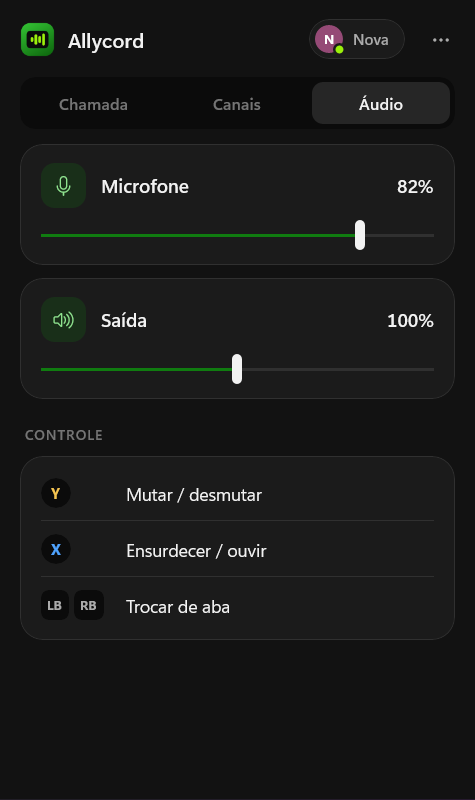
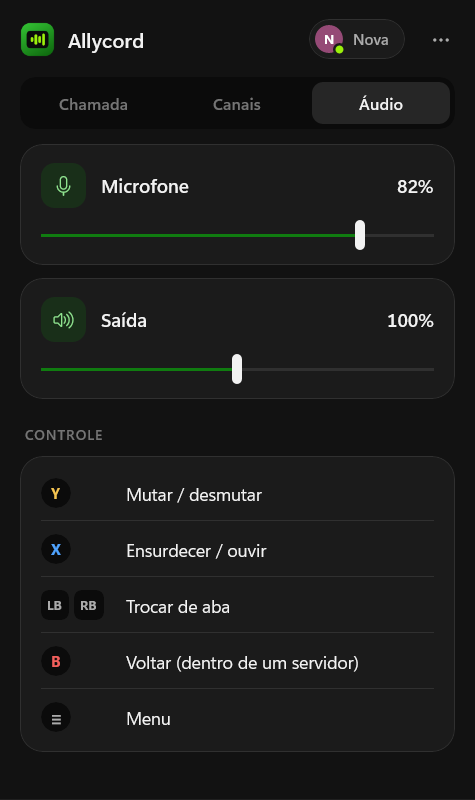
Screen share app picker; controller polish
- toggle_screenshare takes a pid: Discord's RPC validates it ("pid must be a
  number >= 0") and shares that app. RPC has no whole-monitor option.
- Picker lists Alt+Tab-style windows (visible, not cloaked, not tool windows),
  heaviest first so the game tends to be on top.
- All flyouts constrained to the widget (windowed popups could leave Game
  Bar's surface; this is also why the picker didn't render at first).
- Menu (≡) opens the ⋯ menu; Audio tab lists every controller shortcut.

diff --git a/src/Allycord.Widget/MainPage.xaml b/src/Allycord.Widget/MainPage.xaml
@@ -176,10 +176,10 @@
                     </StackPanel>
                 </Border>
 
-                <Button Grid.Column="3" Style="{StaticResource XcIconButton}" VerticalAlignment="Center">
+                <Button x:Name="MenuButton" Grid.Column="3" Style="{StaticResource XcIconButton}" VerticalAlignment="Center">
                     <FontIcon FontFamily="{StaticResource XcIcons}" Glyph="&#xE712;" FontSize="16" />
                     <Button.Flyout>
-                        <MenuFlyout Placement="BottomEdgeAlignedRight">
+                        <MenuFlyout Placement="BottomEdgeAlignedRight" ShouldConstrainToRootBounds="True">
                             <MenuFlyoutItem x:Uid="MenuOpenDiscord" Text="Open Discord" Click="OpenDiscord_Click">
                                 <MenuFlyoutItem.Icon>
                                     <FontIcon FontFamily="{StaticResource XcIcons}" Glyph="&#xE8BD;" />
@@ -611,6 +611,28 @@
                                             </Border>
                                         </StackPanel>
                                         <TextBlock x:Uid="ShortcutTabs" Grid.Column="1" FontSize="14" VerticalAlignment="Center" />
+                                    </Grid>
+                                    <Rectangle Height="1" Fill="{StaticResource XcLine}" />
+                                    <Grid Padding="0,10" ColumnSpacing="12">
+                                        <Grid.ColumnDefinitions>
+                                            <ColumnDefinition Width="56" />
+                                            <ColumnDefinition Width="*" />
+                                        </Grid.ColumnDefinitions>
+                                        <Border Background="{StaticResource XcInk0}" CornerRadius="12" Width="24" Height="24" HorizontalAlignment="Left">
+                                            <TextBlock Text="B" FontSize="12" FontWeight="Bold" Foreground="#F25F5C" HorizontalAlignment="Center" VerticalAlignment="Center" />
+                                        </Border>
+                                        <TextBlock x:Uid="ShortcutBack" Grid.Column="1" FontSize="14" VerticalAlignment="Center" />
+                                    </Grid>
+                                    <Rectangle Height="1" Fill="{StaticResource XcLine}" />
+                                    <Grid Padding="0,10" ColumnSpacing="12">
+                                        <Grid.ColumnDefinitions>
+                                            <ColumnDefinition Width="56" />
+                                            <ColumnDefinition Width="*" />
+                                        </Grid.ColumnDefinitions>
+                                        <Border Background="{StaticResource XcInk0}" CornerRadius="12" Width="24" Height="24" HorizontalAlignment="Left">
+                                            <TextBlock Text="&#x2261;" FontSize="14" FontWeight="Bold" Foreground="{StaticResource XcText2}" HorizontalAlignment="Center" VerticalAlignment="Center" />
+                                        </Border>
+                                        <TextBlock x:Uid="ShortcutMenu" Grid.Column="1" FontSize="14" VerticalAlignment="Center" />
                                     </Grid>
                                 </StackPanel>
                             </Grid>

diff --git a/src/Allycord.Widget/MainPage.xaml.cs b/src/Allycord.Widget/MainPage.xaml.cs
@@ -92,6 +92,8 @@ namespace Allycord.Widget
                 if (_demo.Tab > 0) SelectTab(_demo.Tab);
                 if (_demo.Has("open") && _guilds.Count > 0) await OpenGuildAsync(_guilds[0]);
                 if (_demo.Has("search")) SearchBox.Text = "br";
+                if (_demo.Has("share"))
+                    _ = Dispatcher.RunAsync(CoreDispatcherPriority.Low, () => Screen_Click(ScreenButton, null));
                 ApplyDisplayMode();
                 FocusDock();
                 return;
@@ -318,15 +320,45 @@ namespace Allycord.Widget
         async void Video_Click(object sender, RoutedEventArgs e) => await CallAsync("toggle_video");
 
         /// <summary>
-        /// Discord accepts the command even where Go Live is off (e.g. Brazil), and simply doesn't start.
-        /// When nothing changes, say so and hide the button for this session instead of failing silently.
+        /// Stop if sharing; otherwise pick the app to share. RPC only takes a process (no whole-monitor option).
         /// </summary>
         async void Screen_Click(object sender, RoutedEventArgs e)
         {
-            var wasActive = _screenActive;
-            var result = await CallAsync("toggle_screenshare");
+            if (_screenActive)
+            {
+                await CallAsync("toggle_screenshare");
+                return;
+            }
+
+            var targets = await CallAsync("list_share_targets");
+            if (targets == null || targets.ValueType != JsonValueType.Array) return;
+
+            // Keep the menu inside the widget: a windowed popup could land outside Game Bar's surface.
+            var menu = new MenuFlyout { Placement = Windows.UI.Xaml.Controls.Primitives.FlyoutPlacementMode.Bottom, ShouldConstrainToRootBounds = true };
+            menu.Items.Add(new MenuFlyoutItem { Text = T("ShareWhichApp"), IsEnabled = false });
+            foreach (var value in targets.GetArray())
+            {
+                var target = value.GetObject();
+                var pid = Json.Num(target, "pid");
+                var title = Json.Str(target, "title") ?? "";
+                if (title.Length > 42) title = title.Substring(0, 41) + "\u2026";
+                var item = new MenuFlyoutItem { Text = $"{title}  \u00B7  {Json.Str(target, "name")}" };
+                item.Click += async (s2, a2) => await ShareAsync(pid);
+                menu.Items.Add(item);
+            }
+            if (menu.Items.Count == 1) menu.Items.Add(new MenuFlyoutItem { Text = T("NoShareTargets"), IsEnabled = false });
+            menu.ShowAt(ScreenButton);
+        }
+
+        /// <summary>
+        /// Discord accepts the command even where Go Live is off (e.g. Brazil), and simply doesn't start.
+        /// When nothing changes, say so and hide the button for this session instead of failing silently.
+        /// </summary>
+        async Task ShareAsync(double pid)
+        {
+            var result = await CallAsync("toggle_screenshare", new JsonObject { ["pid"] = JsonValue.CreateNumberValue(pid) });
             if (result == null || result.ValueType != JsonValueType.Object) return;
-            if (!Json.Bool(result.GetObject(), "changed") && !wasActive)
+            if (!Json.Bool(result.GetObject(), "changed"))
             {
                 _screenBlocked = true;
                 ScreenButton.Visibility = Visibility.Collapsed;
@@ -523,7 +555,15 @@ namespace Allycord.Widget
         protected override async void OnKeyDown(KeyRoutedEventArgs e)
         {
             base.OnKeyDown(e);
-            if (e.Handled || MainView.Visibility != Visibility.Visible || FocusManager.GetFocusedElement() is TextBox) return;
+            if (e.Handled) return;
+            // Menu (≡) opens the ⋯ menu from anywhere, like a game's pause menu.
+            if (e.Key == VirtualKey.GamepadMenu && !_pinned)
+            {
+                e.Handled = true;
+                MenuButton.Flyout.ShowAt(MenuButton);
+                return;
+            }
+            if (MainView.Visibility != Visibility.Visible || FocusManager.GetFocusedElement() is TextBox) return;
 
             switch (e.Key)
             {
@@ -682,7 +722,7 @@ namespace Allycord.Widget
             panel.Children.Add(slider);
             panel.Children.Add(toggle);
 
-            var flyout = new Flyout { Content = panel };
+            var flyout = new Flyout { Content = panel, ShouldConstrainToRootBounds = true };
             flyout.Closed += (s, a) => send.Flush();
             flyout.ShowAt((FrameworkElement)MembersGrid.ContainerFromItem(member) ?? MembersGrid);
         }

diff --git a/src/Allycord.Bridge/Discord/DiscordSession.cs b/src/Allycord.Bridge/Discord/DiscordSession.cs
@@ -391,12 +391,17 @@ sealed class DiscordSession
             case "toggle_video":
                 await ipc.SendAsync("TOGGLE_VIDEO");
                 return null;
+            case "list_share_targets":
+                return ShareTargets();
             case "toggle_screenshare":
                 // Discord accepts the command even where Go Live is unavailable, it just doesn't start.
                 // Report whether the state actually changed so the widget can say so.
+                // Optional "pid": share that app (the only target RPC accepts; no whole-monitor option).
                 var wait = new TaskCompletionSource<bool>(TaskCreationOptions.RunContinuationsAsynchronously);
                 _screenChanged = wait;
-                await ipc.SendAsync("TOGGLE_SCREENSHARE");
+                var shareArgs = new JsonObject();
+                if (args["pid"] is JsonValue pidValue) shareArgs["pid"] = Math.Max(0, (int)pidValue);
+                await ipc.SendAsync("TOGGLE_SCREENSHARE", shareArgs);
                 var changedInTime = await Task.WhenAny(wait.Task, Task.Delay(TimeSpan.FromSeconds(4))) == wait.Task;
                 _screenChanged = null;
                 return new JsonObject { ["changed"] = changedInTime };
@@ -460,6 +465,40 @@ sealed class DiscordSession
             default:
                 throw new InvalidOperationException($"Unknown method {method}");
         }
+    }
+
+    /// <summary>
+    /// Apps with a visible window that Discord could share, heaviest first (the game is usually on top).
+    /// Built only when the user opens the picker.
+    /// </summary>
+    static JsonArray ShareTargets()
+    {
+        var skip = new HashSet<string>(StringComparer.OrdinalIgnoreCase)
+        {
+            "Discord", "DiscordPTB", "DiscordCanary", "Allycord.Widget", "Allycord.Bridge",
+            "TextInputHost", "ApplicationFrameHost", "SystemSettings", "ShellExperienceHost", "StartMenuExperienceHost",
+        };
+        var targets = new List<(int Pid, string Name, string Title, long Memory)>();
+        foreach (var p in Process.GetProcesses())
+        {
+            using (p)
+            {
+                try
+                {
+                    if (p.MainWindowHandle == IntPtr.Zero || string.IsNullOrWhiteSpace(p.MainWindowTitle) || skip.Contains(p.ProcessName)
+                        || !Win32.IsAltTabWindow(p.MainWindowHandle))
+                        continue;
+                    targets.Add((p.Id, p.ProcessName, p.MainWindowTitle, p.WorkingSet64));
+                }
+                catch { } // exited, or access denied
+            }
+        }
+        return new JsonArray(targets.OrderByDescending(t => t.Memory).Take(12).Select(t => (JsonNode)new JsonObject
+        {
+            ["pid"] = t.Pid,
+            ["name"] = t.Name,
+            ["title"] = t.Title,
+        }).ToArray());
     }
 
     /// <summary>Subscribes if this Discord build knows the event; "Invalid event" (4004) means unsupported.</summary>

diff --git a/src/Allycord.Widget/DemoMode.cs b/src/Allycord.Widget/DemoMode.cs
@@ -98,6 +98,13 @@ namespace Allycord.Widget
                 case "toggle_deaf": _deaf = !_deaf; if (!_deaf) _mute = false; break;
                 case "leave": _inCall = false; break;
                 case "toggle_video": _video = !_video; break;
+                case "list_share_targets":
+                    return new JsonArray
+                    {
+                        Target(7120, "ForzaHorizon5", "Forza Horizon 5"),
+                        Target(5532, "Spotify", "Spotify Premium"),
+                        Target(4410, "msedge", "Guia de builds - Microsoft Edge"),
+                    };
                 case "toggle_screenshare":
                     _screen = !_screen;
                     return new JsonObject { ["changed"] = JsonValue.CreateBooleanValue(true) };
@@ -147,6 +154,13 @@ namespace Allycord.Widget
             m["volume"] = JsonValue.CreateNumberValue(volume);
             return m;
         }
+
+        static JsonObject Target(int pid, string name, string title) => new JsonObject
+        {
+            ["pid"] = JsonValue.CreateNumberValue(pid),
+            ["name"] = JsonValue.CreateStringValue(name),
+            ["title"] = JsonValue.CreateStringValue(title),
+        };
 
         static JsonObject Guild(string id, string name) => new JsonObject
         {

diff --git a/src/Allycord.Bridge/Win32.cs b/src/Allycord.Bridge/Win32.cs
@@ -1,0 +1,31 @@
+using System.Runtime.InteropServices;
+
+namespace Allycord.Bridge;
+
+static partial class Win32
+{
+    const int GWL_EXSTYLE = -20;
+    const long WS_EX_TOOLWINDOW = 0x00000080;
+    const int DWMWA_CLOAKED = 14;
+
+    /// <summary>
+    /// Roughly what Alt+Tab shows: visible, not cloaked (hidden UWP/background hosts), not a tool
+    /// window (overlays, tray helpers). Filters the share picker down to real apps and games.
+    /// </summary>
+    public static bool IsAltTabWindow(IntPtr hwnd)
+    {
+        if (!IsWindowVisible(hwnd)) return false;
+        if ((GetWindowLongPtrW(hwnd, GWL_EXSTYLE) & WS_EX_TOOLWINDOW) != 0) return false;
+        return DwmGetWindowAttribute(hwnd, DWMWA_CLOAKED, out var cloaked, sizeof(int)) != 0 || cloaked == 0;
+    }
+
+    [LibraryImport("user32.dll")]
+    [return: MarshalAs(UnmanagedType.Bool)]
+    private static partial bool IsWindowVisible(IntPtr hwnd);
+
+    [LibraryImport("user32.dll")]
+    private static partial long GetWindowLongPtrW(IntPtr hwnd, int index);
+
+    [LibraryImport("dwmapi.dll")]
+    private static partial int DwmGetWindowAttribute(IntPtr hwnd, int attribute, out int value, int size);
+}

diff --git a/README.md b/README.md
@@ -30,18 +30,18 @@ Press the Xbox button, and it's there. Sister project of [Discord-Lite](https://
 
 - **Call** — mute, deafen, leave (with a one-tap *Rejoin* if you hit it by mistake), live call timer.
 - **Who's talking** — everyone in the channel, with a speaking ring and mute/deafen badges.
-- **Camera and screen share** toggles, shown only when your Discord offers them over RPC. Where Discord has Go Live
+- **Camera and screen share** (pick which app to share), shown only when your Discord offers them over RPC. Where Discord has Go Live
   disabled (e.g. Brazil, by regulatory order) Allycord tells you and hides the button — it never works around it.
 - **Per-person volume** and *mute for me* (tap a person).
 - **Channels** — recent channels (one tap to rejoin), favorite servers, search, and a preview of who's in each voice channel.
 - **Audio** — microphone and output volume.
 - **Pinned overlay** — pin the widget and, with Game Bar closed, a small pill over your game shows who's speaking.
-- **Controller first** — `Y` mute · `X` deafen · `LB`/`RB` switch tabs · `B` back.
+- **Controller first** — `Y` mute · `X` deafen · `LB`/`RB` switch tabs · `B` back · `≡` menu.
 - English and Portuguese.
 
 <p align="center">
   <img src="docs/screenshots/audio.png" width="240" alt="Audio">
-  <img src="docs/screenshots/idle.png" width="240" alt="Not in a call">
+  <img src="docs/screenshots/share.png" width="240" alt="Pick the app to share">
 </p>
 <p align="center">
   <img src="docs/screenshots/pinned.png" width="420" alt="Pinned overlay over the game">
@@ -136,13 +136,13 @@ Aperte o botão Xbox e está lá.
 
 - **Chamada** — mutar, ensurdecer, sair (com *Voltar* se sair sem querer), timer da chamada.
 - **Quem está falando** — todos no canal, com anel de fala e indicadores de mudo/surdo.
-- **Câmera e compartilhamento de tela**, só quando o seu Discord oferece pelo RPC. Onde o Discord desativou o Go Live
+- **Câmera e compartilhamento de tela** (escolha qual app), só quando o seu Discord oferece pelo RPC. Onde o Discord desativou o Go Live
   (ex.: Brasil, por ordem da ANPD), o Allycord avisa e esconde o botão — nunca contorna o bloqueio.
 - **Volume por pessoa** e *silenciar para mim* (toque na pessoa).
 - **Canais** — recentes (um toque para voltar), servidores favoritos, busca e quem está em cada canal.
 - **Áudio** — volume do microfone e da saída.
 - **Overlay fixado** — com o widget fixado e o Game Bar fechado, uma pílula sobre o jogo mostra quem fala.
-- **Feito para controle** — `Y` mutar · `X` ensurdecer · `LB`/`RB` trocar aba · `B` voltar.
+- **Feito para controle** — `Y` mutar · `X` ensurdecer · `LB`/`RB` trocar aba · `B` voltar · `≡` menu.
 
 Leve de propósito: sem animações em loop, imagens no tamanho exibido e nada de polling. Medido em
 Release, conectado e parado: bridge ~0% de CPU e ~10 MB; widget ~0,01% de CPU.
